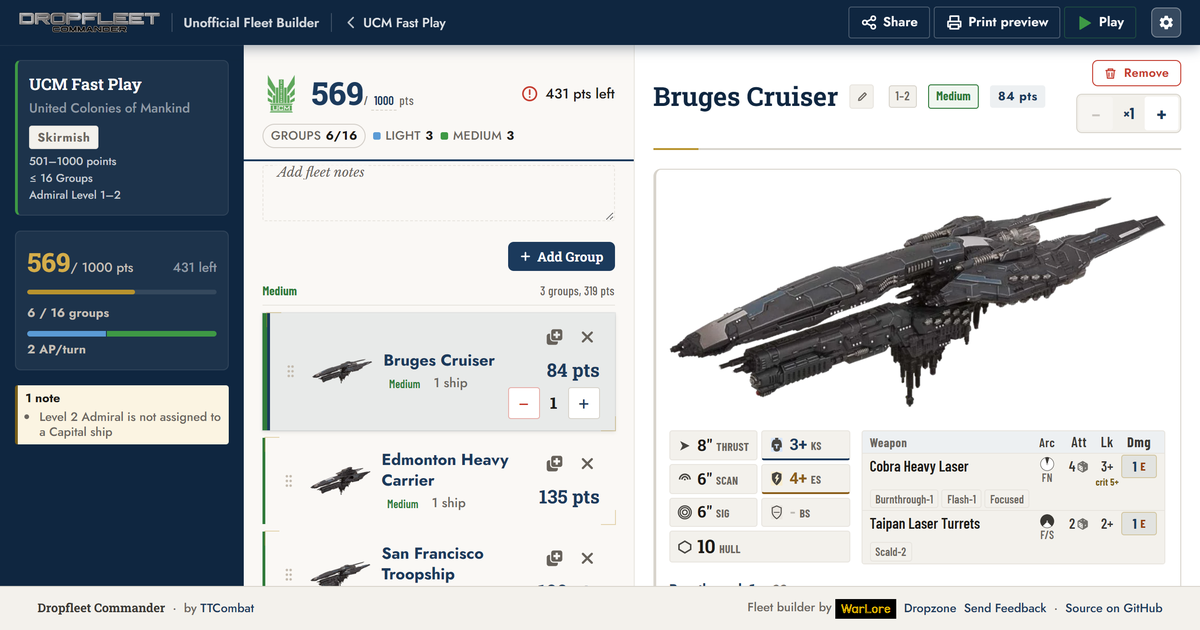
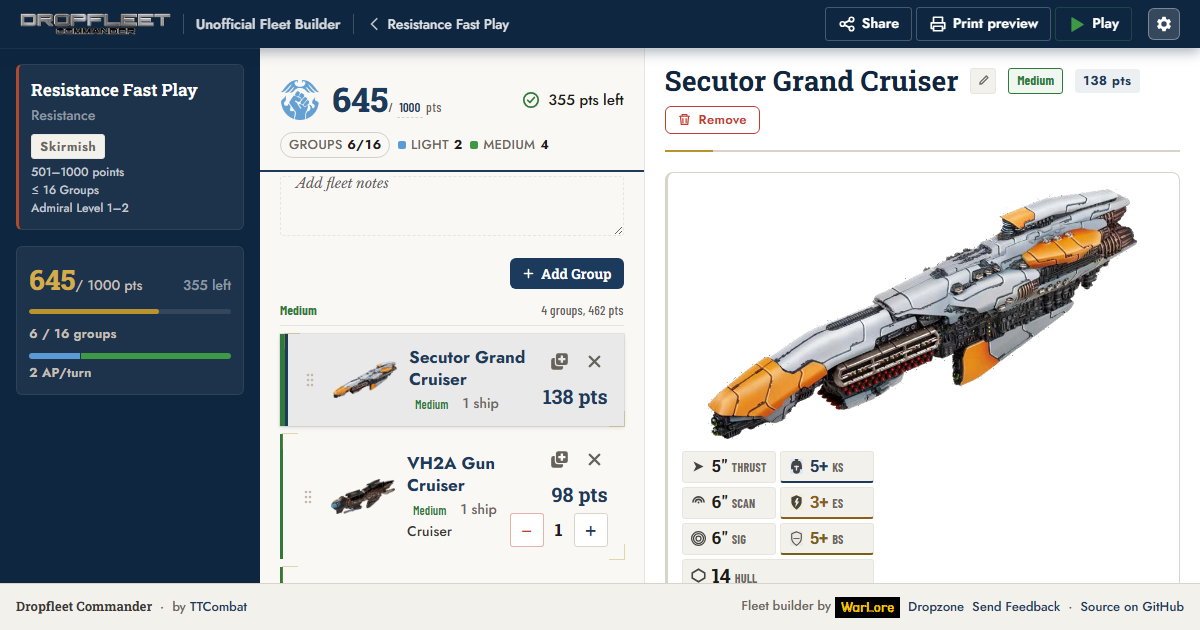
Link preview shows the Secutor; reference sheets drop the printed linktr.ee line
The builder's link-preview image is a Resistance fleet with the Secutor
Grand Cruiser selected (was the UCM Bruges), cache key v4. The faction
quick references keep the WarLore link but no longer print the URL.

Changed region(s): [[0.0, 0.0, 1.0, 0.9952], [0.8633, 0.6937, 0.9867, 0.8746]]

diff --git a/index.html b/index.html
@@ -45,17 +45,17 @@
      is a new URL, which is the only reliable way to evict it. Bump this every
      time scripts/og-shot.mjs regenerates og-preview.png, the same way sw.js
      bumps its CACHE, and keep the twitter:image below identical to it. -->
-<meta property="og:image" content="https://type37.github.io/dropfleet-builder/assets/og/fleet-builder.png?v=3">
+<meta property="og:image" content="https://type37.github.io/dropfleet-builder/assets/og/fleet-builder.png?v=4">
 <meta property="og:image:width" content="1200">
 <meta property="og:image:height" content="630">
 <meta property="og:image:type" content="image/png">
-<meta property="og:image:alt" content="A UCM Fast Play fleet open in the builder: Bruges, Edmonton and San Francisco in a Medium battlegroup, with the points bar and rules validation">
+<meta property="og:image:alt" content="A Resistance Fast Play fleet open in the builder with the Secutor Grand Cruiser selected, its stats and picture beside the points bar">
 <meta property="og:url" content="https://type37.github.io/dropfleet-builder/">
 <meta property="og:type" content="website">
 <meta name="twitter:card" content="summary_large_image">
 <meta name="twitter:title" content="Dropfleet Commander Fleet Builder">
 <meta name="twitter:description" content="Build fleets! Save them! Share them! Sync them! You can do it all here.">
-<meta name="twitter:image" content="https://type37.github.io/dropfleet-builder/assets/og/fleet-builder.png?v=3">
+<meta name="twitter:image" content="https://type37.github.io/dropfleet-builder/assets/og/fleet-builder.png?v=4">
 <title>Dropfleet Commander - Fleet Builder</title>
 <link rel="icon" href="favicon.ico" sizes="32x32">
 <link rel="icon" href="assets/logos/favicon-192.png" sizes="192x192" type="image/png">

diff --git a/mobile/index.html b/mobile/index.html
@@ -22,15 +22,15 @@
 <meta property="og:description" content="Build fleets! Save them! Share them! Sync them! You can do it all here.">
 <meta property="og:url" content="https://type37.github.io/dropfleet-builder/">
 <!-- Keep ?v= in step with ../index.html. -->
-<meta property="og:image" content="https://type37.github.io/dropfleet-builder/assets/og/fleet-builder.png?v=3">
+<meta property="og:image" content="https://type37.github.io/dropfleet-builder/assets/og/fleet-builder.png?v=4">
 <meta property="og:image:width" content="1200">
 <meta property="og:image:height" content="630">
 <meta property="og:image:type" content="image/png">
-<meta property="og:image:alt" content="A UCM Fast Play fleet open in the builder: Bruges, Edmonton and San Francisco in a Medium battlegroup, with the points bar and rules validation">
+<meta property="og:image:alt" content="A Resistance Fast Play fleet open in the builder with the Secutor Grand Cruiser selected, its stats and picture beside the points bar">
 <meta name="twitter:card" content="summary_large_image">
 <meta name="twitter:title" content="Dropfleet Commander Fleet Builder">
 <meta name="twitter:description" content="Build fleets! Save them! Share them! Sync them! You can do it all here.">
-<meta name="twitter:image" content="https://type37.github.io/dropfleet-builder/assets/og/fleet-builder.png?v=3">
+<meta name="twitter:image" content="https://type37.github.io/dropfleet-builder/assets/og/fleet-builder.png?v=4">
 <title>Dropfleet Commander, Fleet Builder (Mobile)</title>
 <link rel="icon" href="../favicon.ico" sizes="32x32">
 <link rel="manifest" href="manifest.webmanifest">

diff --git a/ref/index.html b/ref/index.html
@@ -85,7 +85,7 @@
   <a class="card bioficer"   href="bioficer.html"   target="_blank"><img src="../assets/factions/bioficer.webp"   alt=""><span class="name">Bioficer</span></a>
 </div>
 <footer class="foot">
-  <div class="left"><a href="https://linktr.ee/warlore" target="_blank" rel="noopener">linktr.ee/warlore</a></div>
+  <div class="left"></div>
   <div class="center"></div>
   <div class="right">QRS by <a class="warlore-mark" href="https://linktr.ee/warlore" target="_blank" rel="noopener">WarLore</a></div>
 </footer>

diff --git a/ref/bioficer.html b/ref/bioficer.html
@@ -785,7 +785,7 @@
   </section>
 
   <footer class="foot">
-    <div class="left">linktr.ee/warlore</div>
+    <div class="left"></div>
     <div class="center"></div>
     <div class="right">QRS by WarLore</div>
   </footer>

diff --git a/ref/phr.html b/ref/phr.html
@@ -708,7 +708,7 @@
   </section>
 
   <footer class="foot">
-    <div class="left">linktr.ee/warlore</div>
+    <div class="left"></div>
     <div class="center"></div>
     <div class="right">QRS by WarLore</div>
   </footer>

diff --git a/ref/resistance.html b/ref/resistance.html
@@ -749,7 +749,7 @@
   </section>
 
   <footer class="foot">
-    <div class="left">linktr.ee/warlore</div>
+    <div class="left"></div>
     <div class="center"></div>
     <div class="right">QRS by WarLore</div>
   </footer>

diff --git a/ref/scourge.html b/ref/scourge.html
@@ -746,7 +746,7 @@
   </section>
 
   <footer class="foot">
-    <div class="left">linktr.ee/warlore</div>
+    <div class="left"></div>
     <div class="center"></div>
     <div class="right">QRS by WarLore</div>
   </footer>

diff --git a/ref/shaltari.html b/ref/shaltari.html
@@ -772,7 +772,7 @@
   </section>
 
   <footer class="foot">
-    <div class="left">linktr.ee/warlore</div>
+    <div class="left"></div>
     <div class="center"></div>
     <div class="right">QRS by WarLore</div>
   </footer>

diff --git a/ref/ucm.html b/ref/ucm.html
@@ -733,7 +733,7 @@
   </section>
 
   <footer class="foot">
-    <div class="left">linktr.ee/warlore</div>
+    <div class="left"></div>
     <div class="center"></div>
     <div class="right">QRS by WarLore</div>
   </footer>
